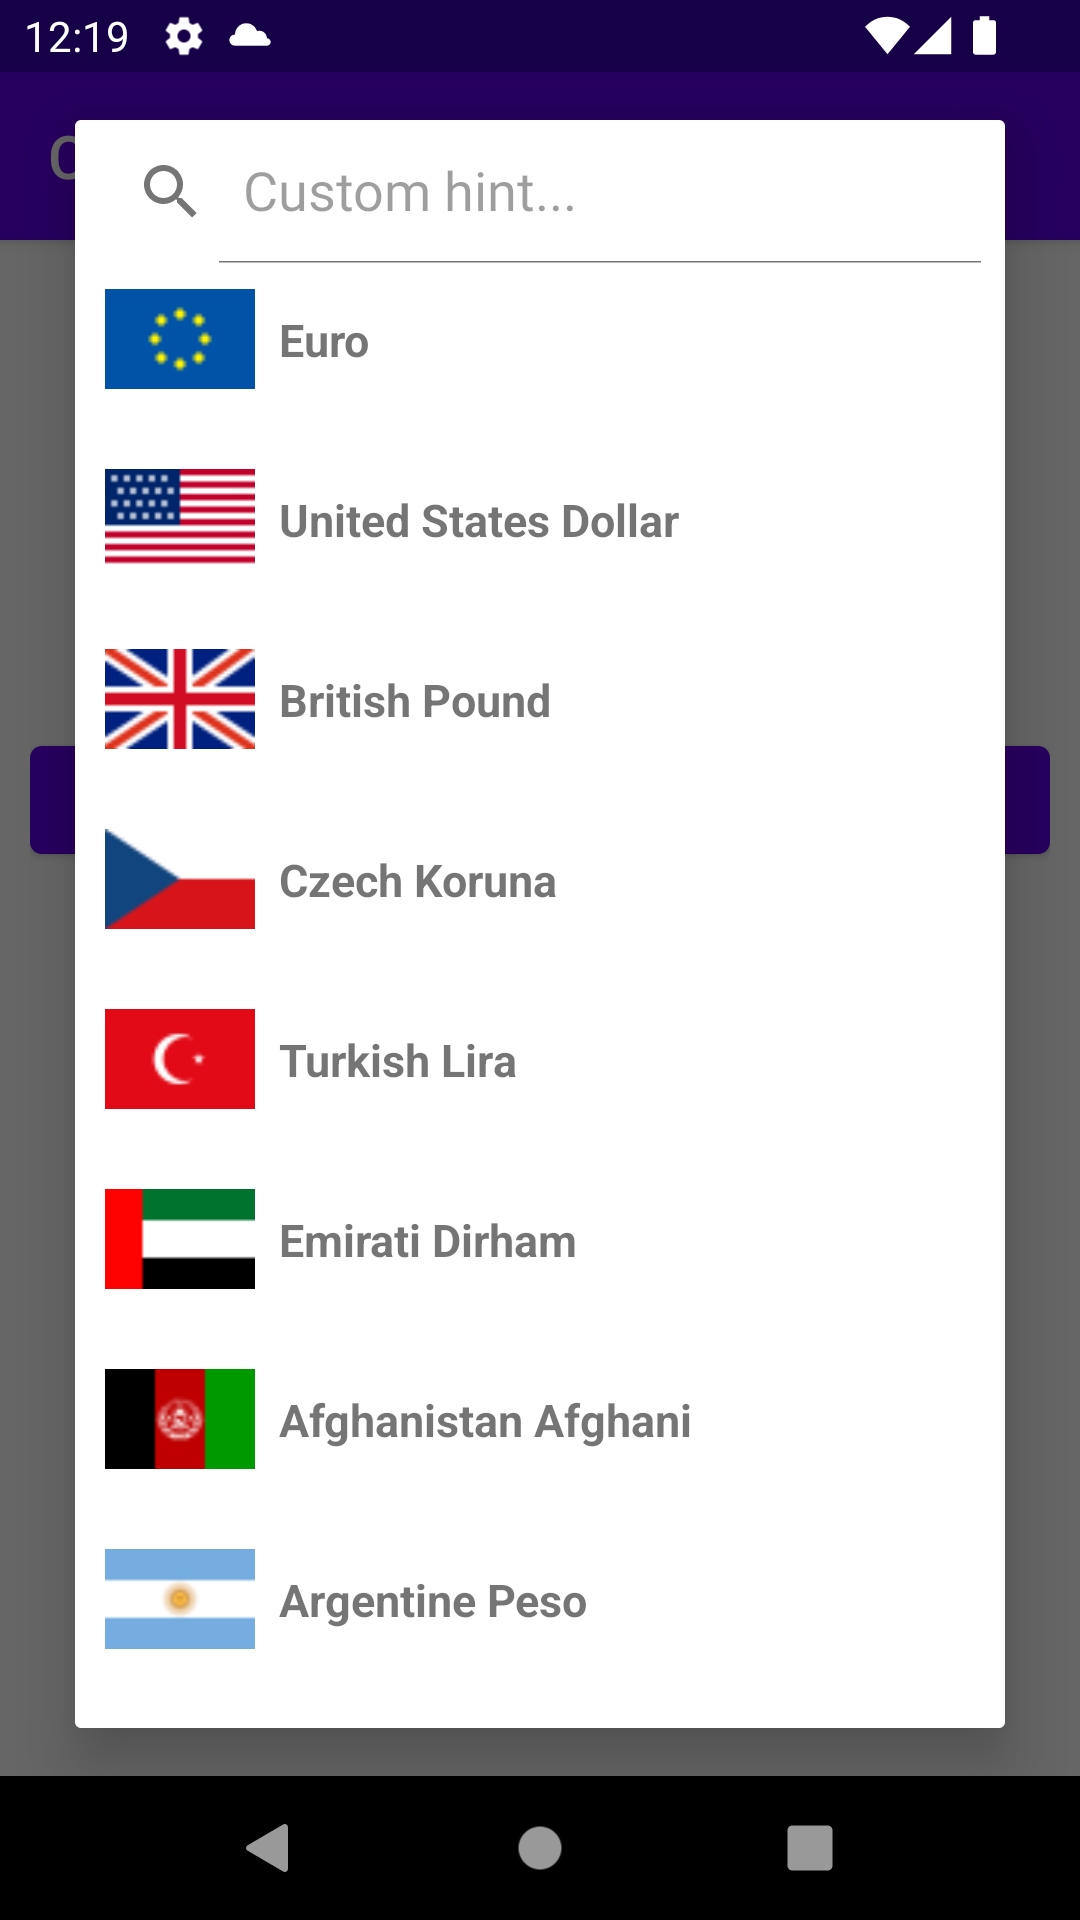
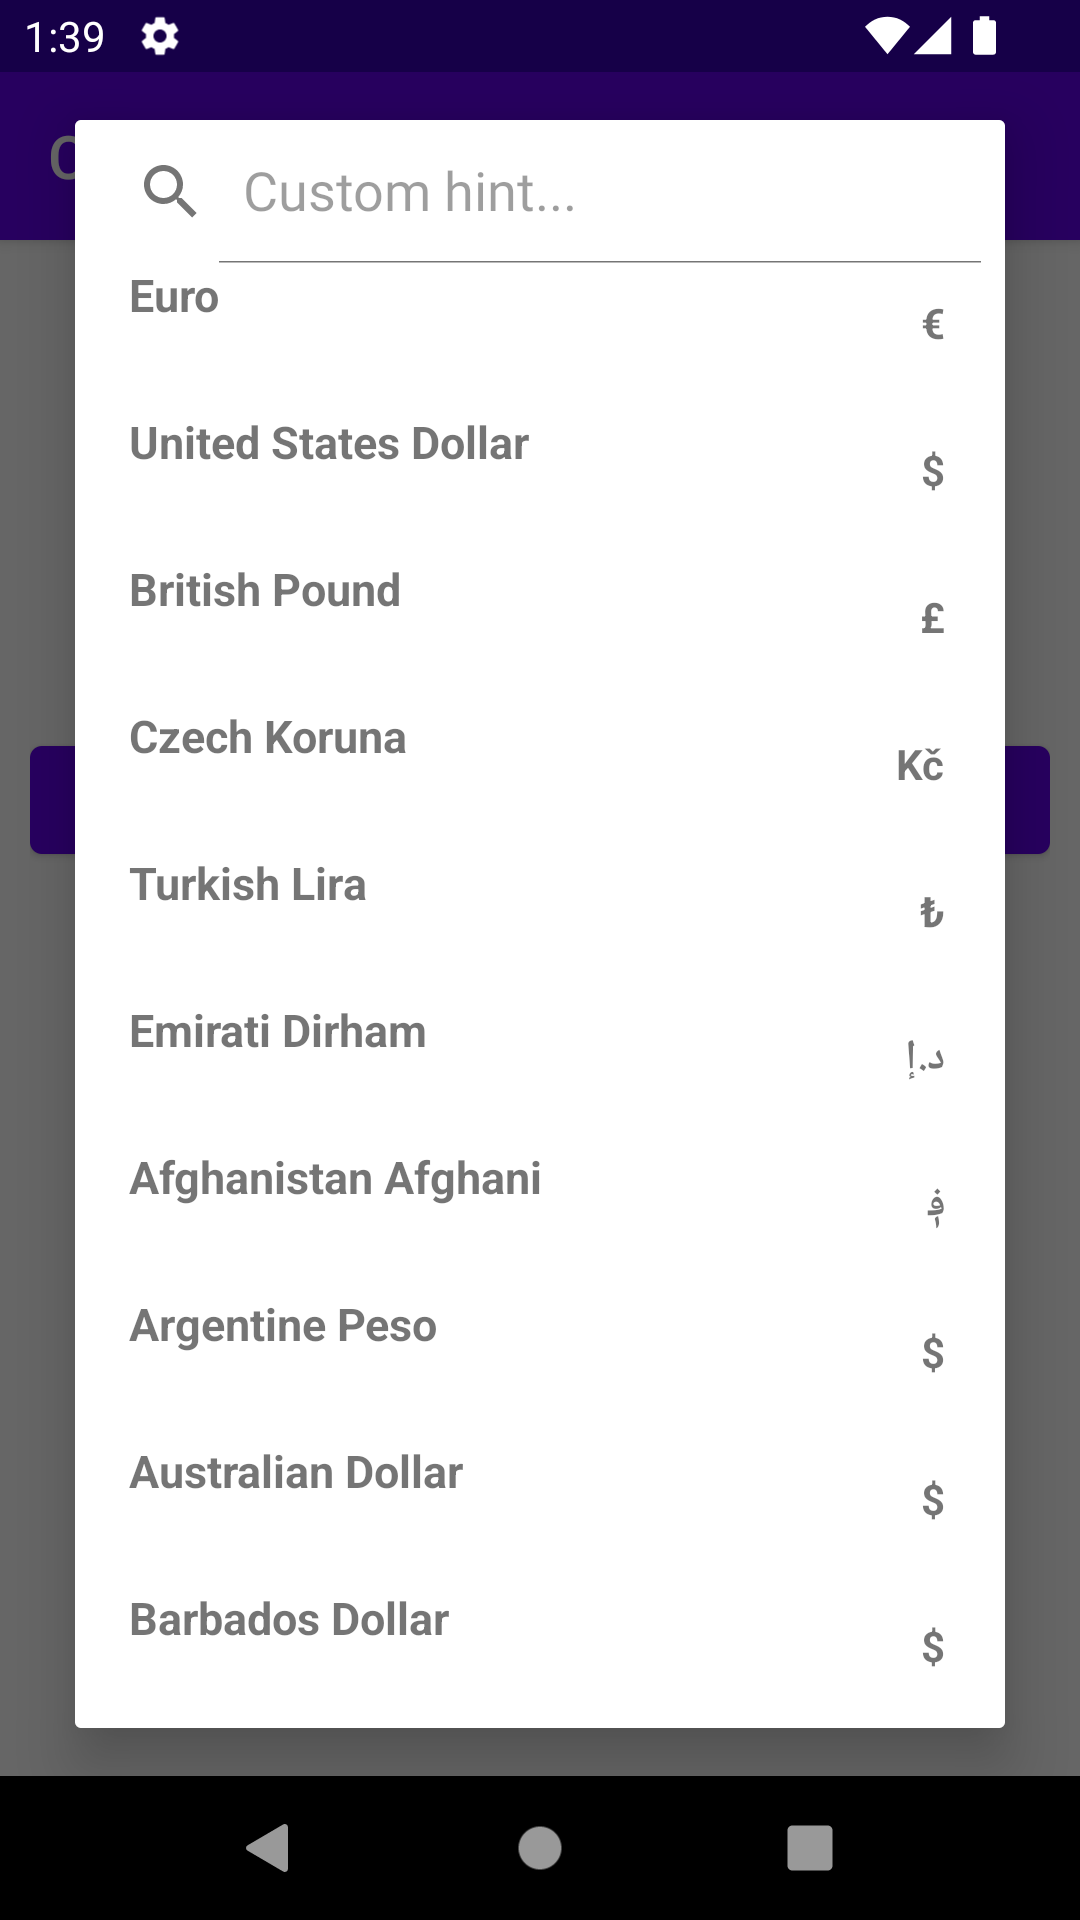
chore: refactor minimal mode

diff --git a/currencyPick/src/main/java/com/brunoxapps/currencypick/CurrencyPick.kt b/currencyPick/src/main/java/com/brunoxapps/currencypick/CurrencyPick.kt
@@ -29,7 +29,7 @@ class CurrencyPick(
     private var textColor: Int? = null
 
     /** **/
-    private var isFullCurrencyData: Boolean = true
+    private var isFullMode: Boolean = true
 
     /**
      *
@@ -50,7 +50,7 @@ class CurrencyPick(
 
         setTextColorView(textColor)
 
-        showFullCurrencyDataView(isFullCurrencyData)
+        showFullMode(isFullMode)
 
         return builder.create()
     }
@@ -114,8 +114,8 @@ class CurrencyPick(
     /**
      *
      */
-    fun showMinimalData() {
-        isFullCurrencyData = false
+    fun showMinimalMode() {
+        isFullMode = false
     }
 
     /**
@@ -141,8 +141,8 @@ class CurrencyPick(
     /**
      *
      */
-    private fun showFullCurrencyDataView(show: Boolean) {
-        adapter?.showFullCurrencyData(show)
+    private fun showFullMode(show: Boolean) {
+        adapter?.showFullMode(show)
     }
 
     /**

diff --git a/currencyPick/src/main/java/com/brunoxapps/currencypick/adapter/CurrencyAdapter.kt b/currencyPick/src/main/java/com/brunoxapps/currencypick/adapter/CurrencyAdapter.kt
@@ -16,7 +16,7 @@ class CurrencyAdapter(
     private var itemsClone = mutableListOf<Currency>()
 
     /** **/
-    private var isFullCurrencyData: Boolean = true
+    private var isFullMode: Boolean = true
 
     /** **/
     private var textColor: Int? = null
@@ -32,8 +32,8 @@ class CurrencyAdapter(
     /**
      *
      */
-    fun showFullCurrencyData(show: Boolean) {
-        isFullCurrencyData = show
+    fun showFullMode(show: Boolean) {
+        isFullMode = show
     }
 
     /**
@@ -77,7 +77,7 @@ class CurrencyAdapter(
 
         holder.setTextColor(textColor)
 
-        holder.showFullCurrencyData(isFullCurrencyData)
+        holder.showFullMode(isFullMode)
 
         holder.itemView.setOnClickListener {
             onItemClickListener(item)

diff --git a/currencyPick/src/main/java/com/brunoxapps/currencypick/adapter/CurrencyViewHolder.kt b/currencyPick/src/main/java/com/brunoxapps/currencypick/adapter/CurrencyViewHolder.kt
@@ -39,10 +39,10 @@ class CurrencyViewHolder(
     /**
      *
      */
-    fun showFullCurrencyData(show: Boolean) {
+    fun showFullMode(show: Boolean) {
         binding.apply {
+            ivFlag.isVisible = show
             tvCode.isVisible = show
-            tvSymbol.isVisible = show
         }
     }
 

diff --git a/app/src/main/java/com/brunoxapps/currencypick/MainActivity.kt b/app/src/main/java/com/brunoxapps/currencypick/MainActivity.kt
@@ -24,7 +24,7 @@ class MainActivity : AppCompatActivity() {
 
         currencyPick.setTextColor("#2196F3")
 
-        currencyPick.showMinimalData()
+        currencyPick.showMinimalMode()
 
         binding.button.setOnClickListener {
             currencyPick.show(supportFragmentManager, "")
